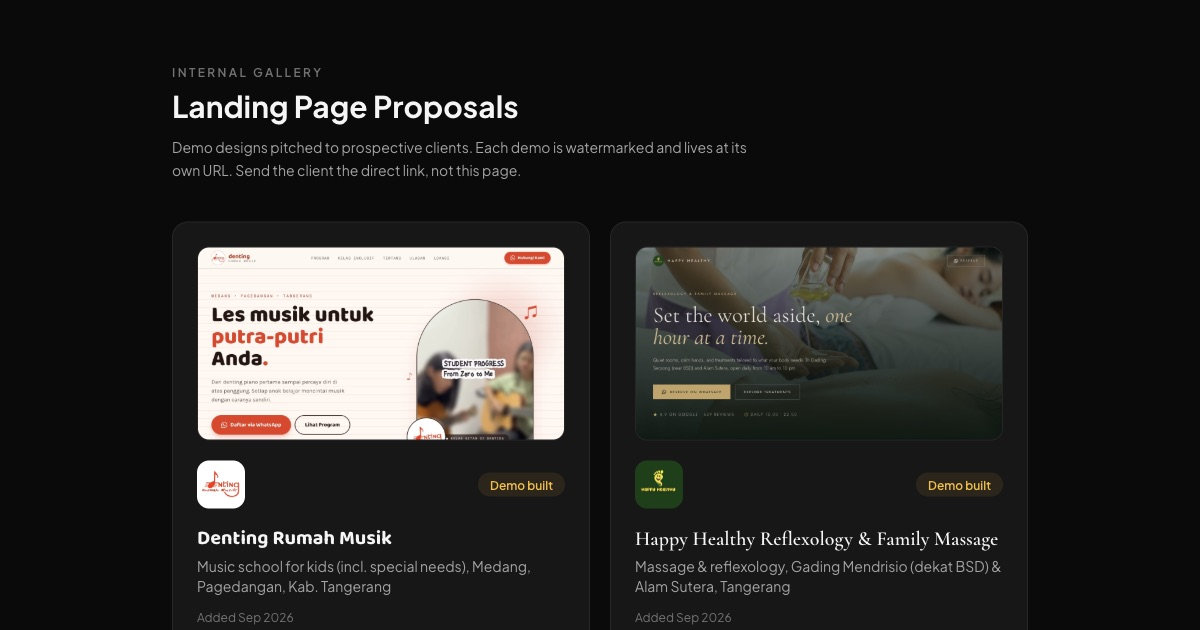
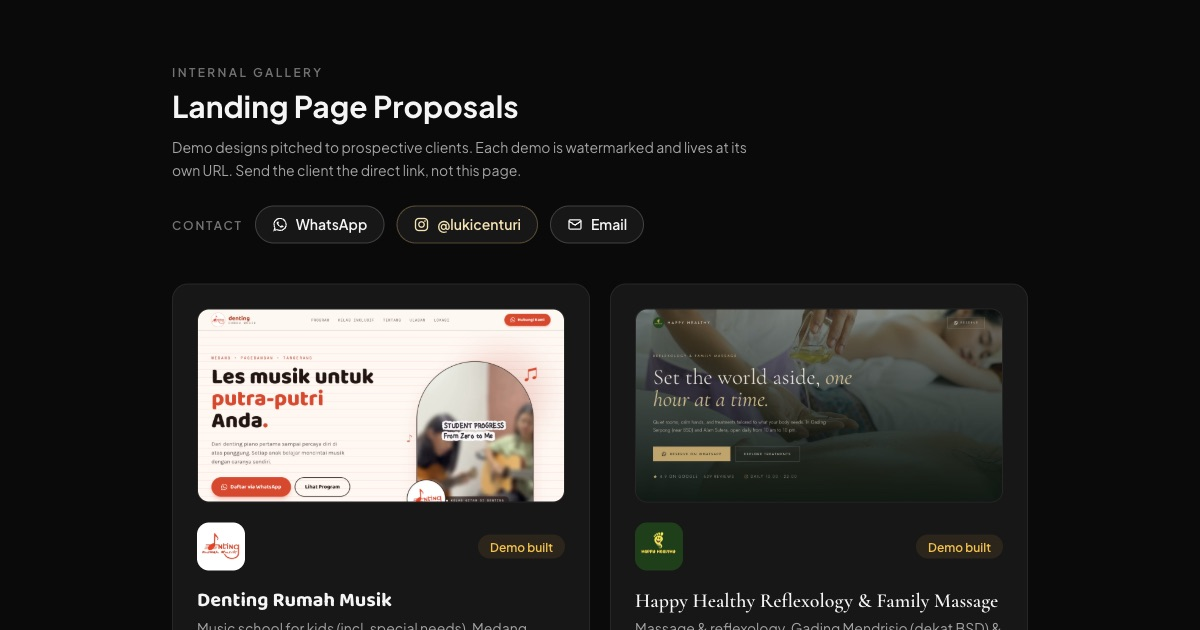
Add contact row (WhatsApp, Instagram, email) to gallery header

diff --git a/index.html b/index.html
@@ -50,6 +50,22 @@
       Demo designs pitched to prospective clients. Each demo is watermarked and lives at its own URL. Send the client the direct link, not this page.
     </p>
 
+    <div class="mt-6 flex flex-wrap items-center gap-3">
+      <span class="text-xs font-semibold uppercase tracking-[0.15em] text-neutral-500">Contact</span>
+      <a href="https://wa.me/6285856680484" target="_blank" rel="noopener" class="inline-flex items-center gap-2 rounded-full border border-neutral-700 bg-neutral-900 px-4 py-2 text-sm font-semibold transition hover:border-amber-500/50 hover:text-amber-400">
+        <svg class="h-4 w-4" viewBox="0 0 24 24" fill="currentColor" aria-hidden="true"><path d="M12.04 2a9.9 9.9 0 0 0-8.53 14.9L2 22l5.25-1.47A9.9 9.9 0 1 0 12.04 2zm0 18.1a8.1 8.1 0 0 1-4.14-1.14l-.3-.18-3.11.87.86-3.04-.2-.31a8.2 8.2 0 1 1 6.89 3.8zm4.5-6.13c-.25-.12-1.47-.72-1.7-.8-.22-.09-.39-.13-.55.12-.17.25-.64.8-.78.97-.14.16-.29.18-.53.06a6.7 6.7 0 0 1-3.35-2.93c-.25-.43.25-.4.72-1.34.08-.16.04-.3-.02-.43-.06-.12-.55-1.34-.76-1.83-.2-.48-.4-.42-.55-.42h-.47c-.16 0-.43.06-.66.3-.22.25-.86.85-.86 2.07 0 1.22.89 2.4 1.01 2.56.12.17 1.75 2.67 4.23 3.74.6.26 1.06.41 1.42.53.6.19 1.14.16 1.57.1.48-.07 1.47-.6 1.67-1.18.21-.58.21-1.07.15-1.18-.06-.1-.23-.16-.48-.28z"/></svg>
+        WhatsApp
+      </a>
+      <a href="https://instagram.com/lukicenturi" target="_blank" rel="noopener" class="inline-flex items-center gap-2 rounded-full border border-neutral-700 bg-neutral-900 px-4 py-2 text-sm font-semibold transition hover:border-amber-500/50 hover:text-amber-400">
+        <svg class="h-4 w-4" viewBox="0 0 24 24" fill="none" stroke="currentColor" stroke-width="2" aria-hidden="true"><rect x="3" y="3" width="18" height="18" rx="5"/><circle cx="12" cy="12" r="4"/><circle cx="17.2" cy="6.8" r="1.1" fill="currentColor" stroke="none"/></svg>
+        @lukicenturi
+      </a>
+      <a href="mailto:lukicenturi@gmail.com" class="inline-flex items-center gap-2 rounded-full border border-neutral-700 bg-neutral-900 px-4 py-2 text-sm font-semibold transition hover:border-amber-500/50 hover:text-amber-400">
+        <svg class="h-4 w-4" viewBox="0 0 24 24" fill="none" stroke="currentColor" stroke-width="2" aria-hidden="true"><rect x="3" y="5" width="18" height="14" rx="2"/><path d="m3 7 9 6 9-6"/></svg>
+        Email
+      </a>
+    </div>
+
     <div class="mt-10 grid gap-5 sm:grid-cols-2">
       <a href="/denting-rumah-musik/" class="group rounded-2xl border border-neutral-800 bg-neutral-900 p-6 transition hover:border-amber-500/50 hover:bg-neutral-900/60">
         <img src="/denting-rumah-musik/assets/mockup-desktop.jpg" alt="Desktop preview of Denting Rumah Musik demo" loading="lazy" class="mb-5 hidden w-full rounded-xl border border-neutral-800 sm:block">
